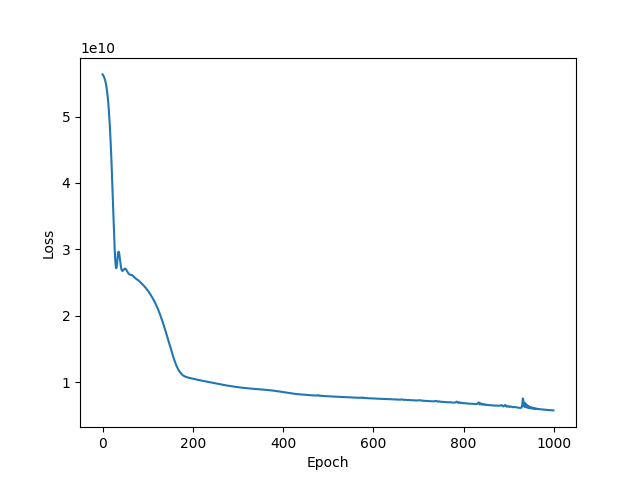
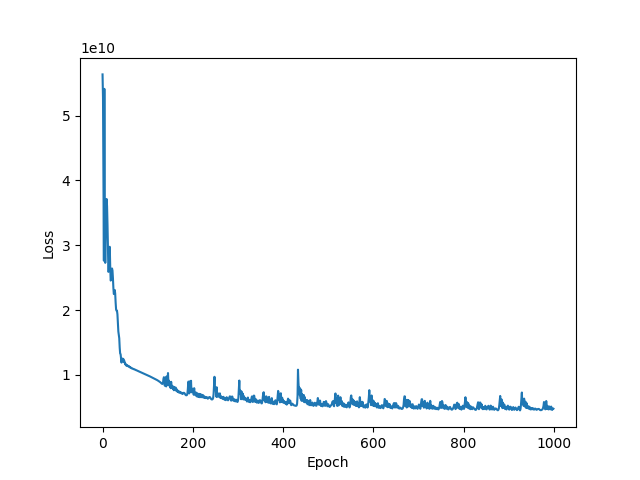
add option to save loss graph and update optimizer learning rate to 0.15 to decrease MAPE from 36.4% to 28.4%

diff --git a/main.py b/main.py
@@ -21,11 +21,12 @@ class Model(nn.Module):
         x = self.out(x)
         return x
 
-def graph(epochs: int, losses: list[float]) -> None:
+def graph(epochs: int, losses: list[float], save: bool = False) -> None:
     plt.plot(range(epochs), losses)
     plt.xlabel('Epoch')
     plt.ylabel('Loss')
-    plt.savefig('loss_plot.png')
+    if save:
+        plt.savefig('loss_plot.png')
     plt.show()
 
 torch.manual_seed(392)
@@ -64,7 +65,7 @@ y_test = torch.FloatTensor(y_test).reshape(-1, 1)
 # Initialize model and training parameters
 model = Model()
 criterion = nn.MSELoss()
-optimizer = optim.Adam(model.parameters(), lr=0.01)
+optimizer = optim.Adam(model.parameters(), lr=0.15)
 
 epochs = 1000
 losses = []
@@ -84,7 +85,7 @@ for i in range(1, epochs + 1):
 
 print('Training finished!\n')
 
-graph(epochs, losses)
+graph(epochs, losses, save=True)
 
 print('Testing...')
 with torch.no_grad():
@@ -105,5 +106,4 @@ with torch.no_grad():
     mape = sum(percentage_errors) / len(percentage_errors)
     print(f'Test MAPE: {mape:.1f}%')
 
-# Save the model
 torch.save(model.state_dict(), 'house_price_regression_model.pth')
